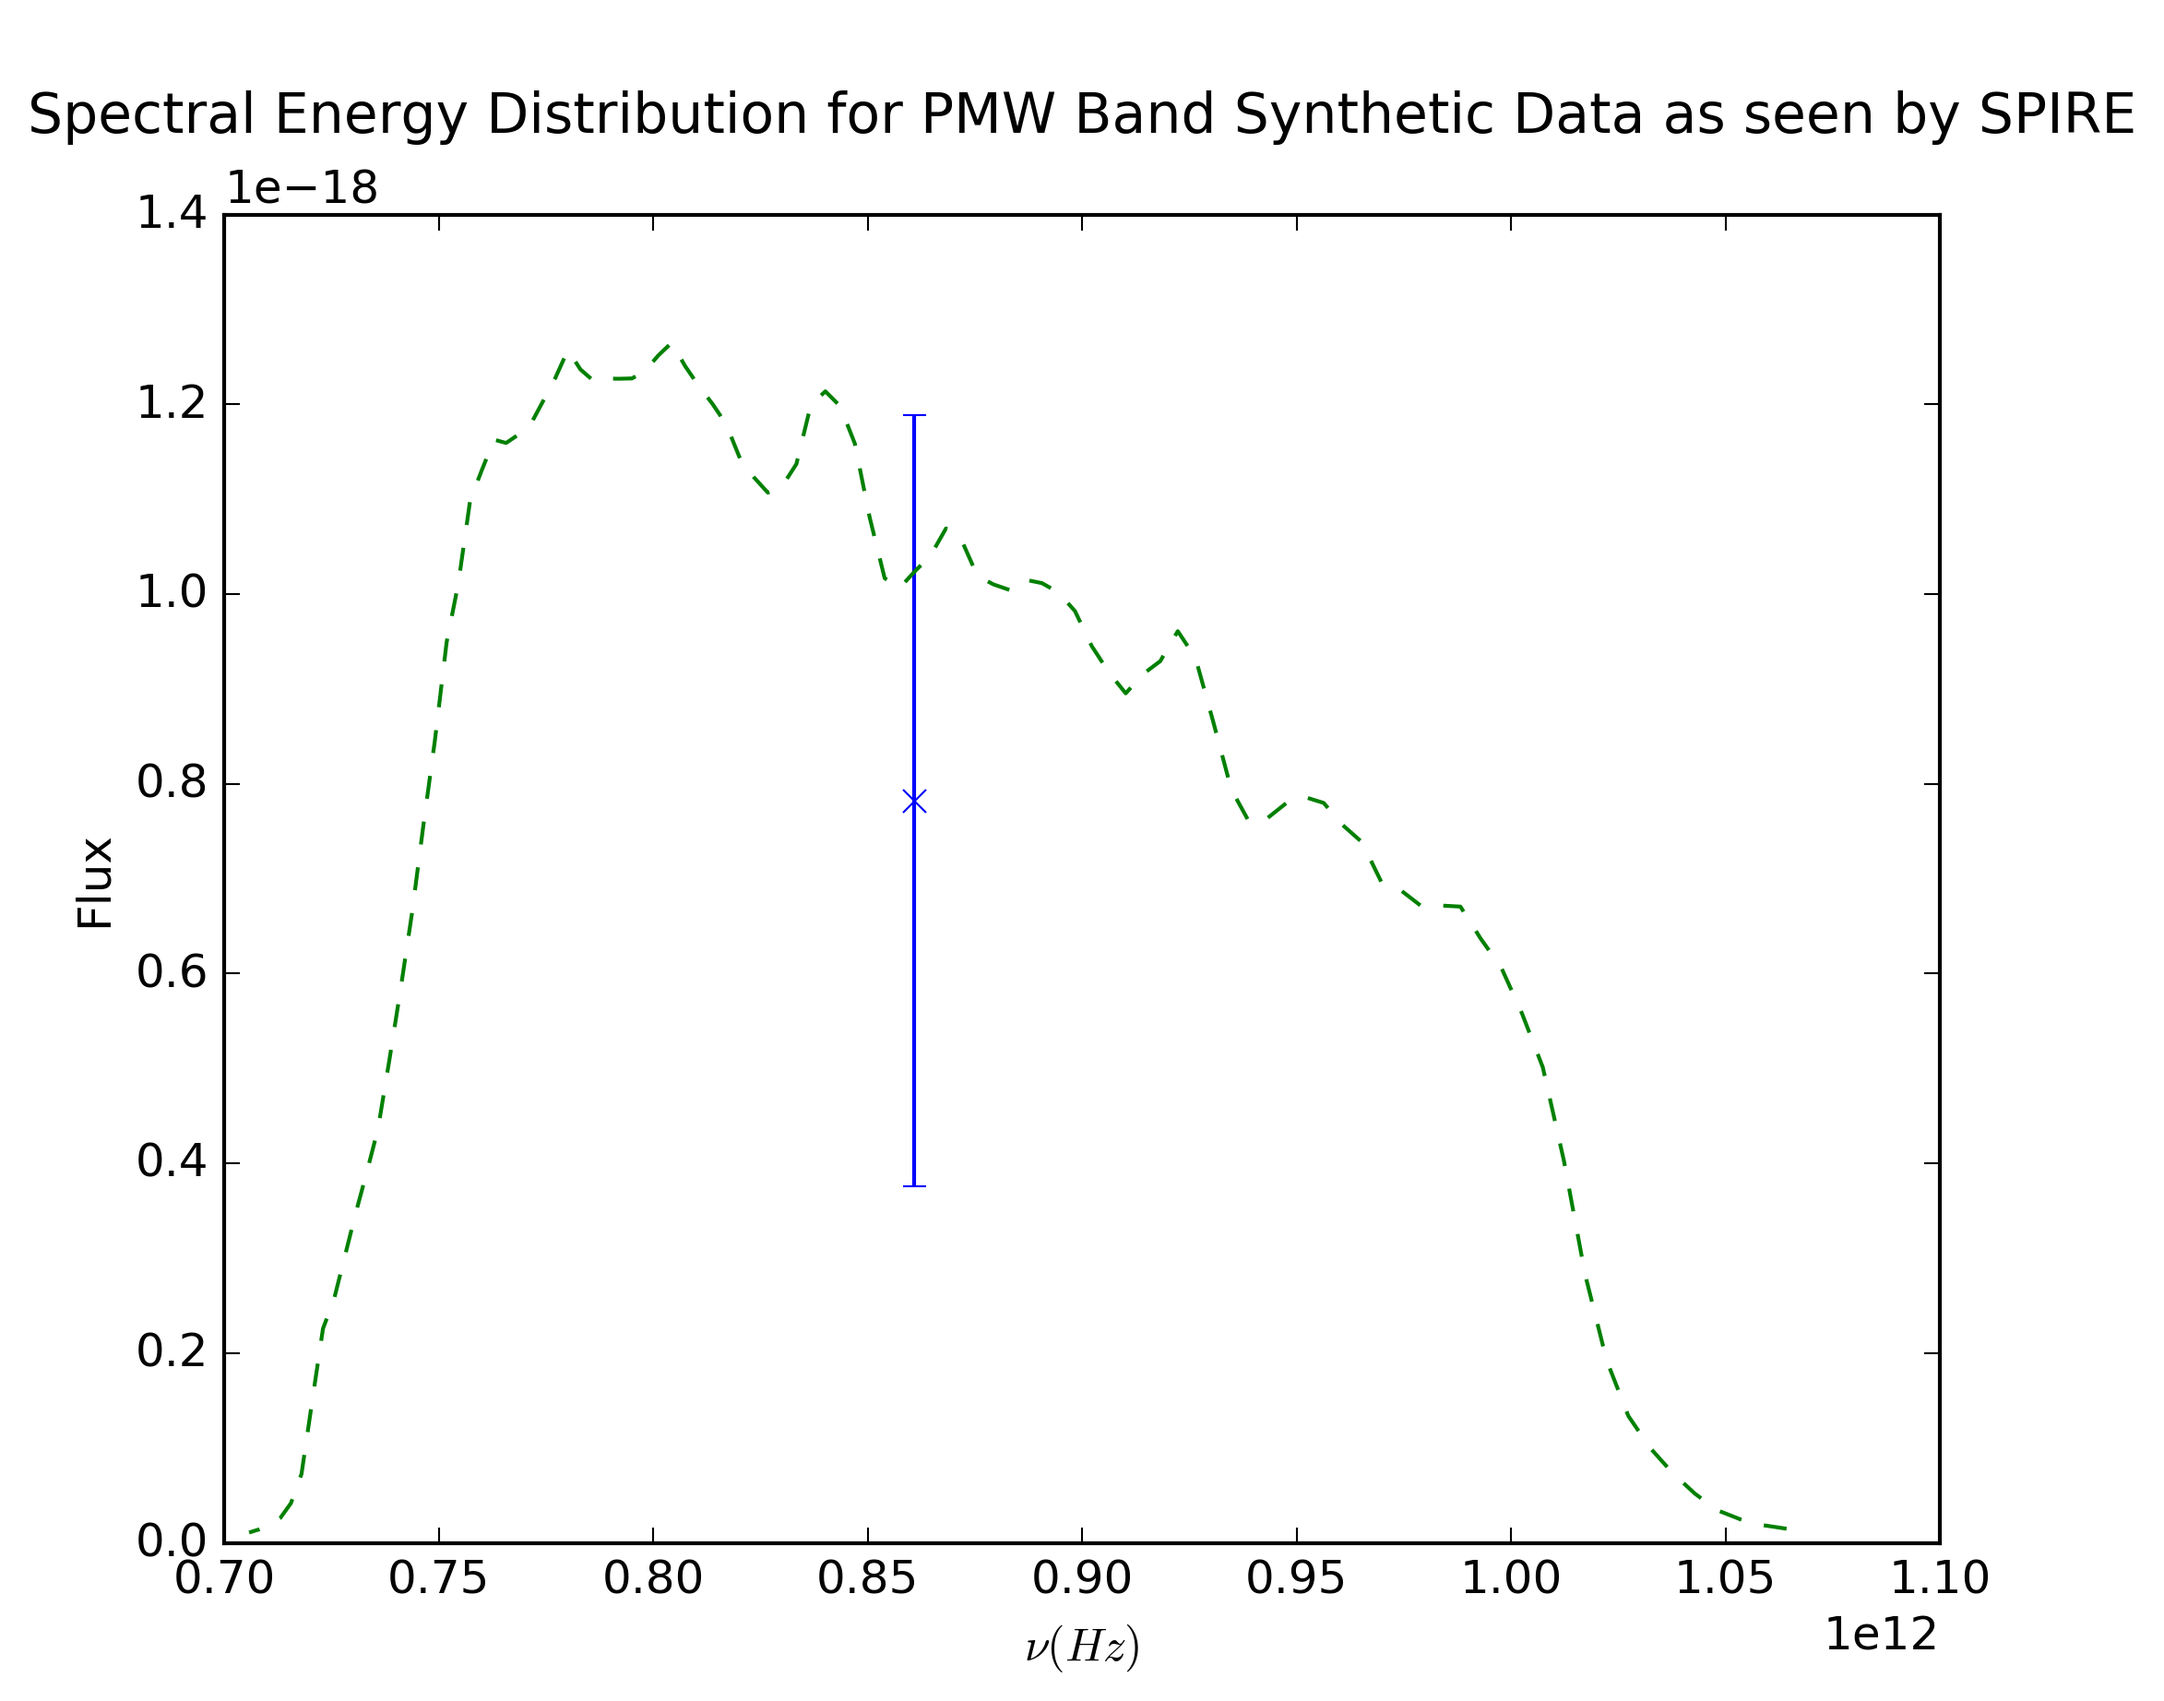
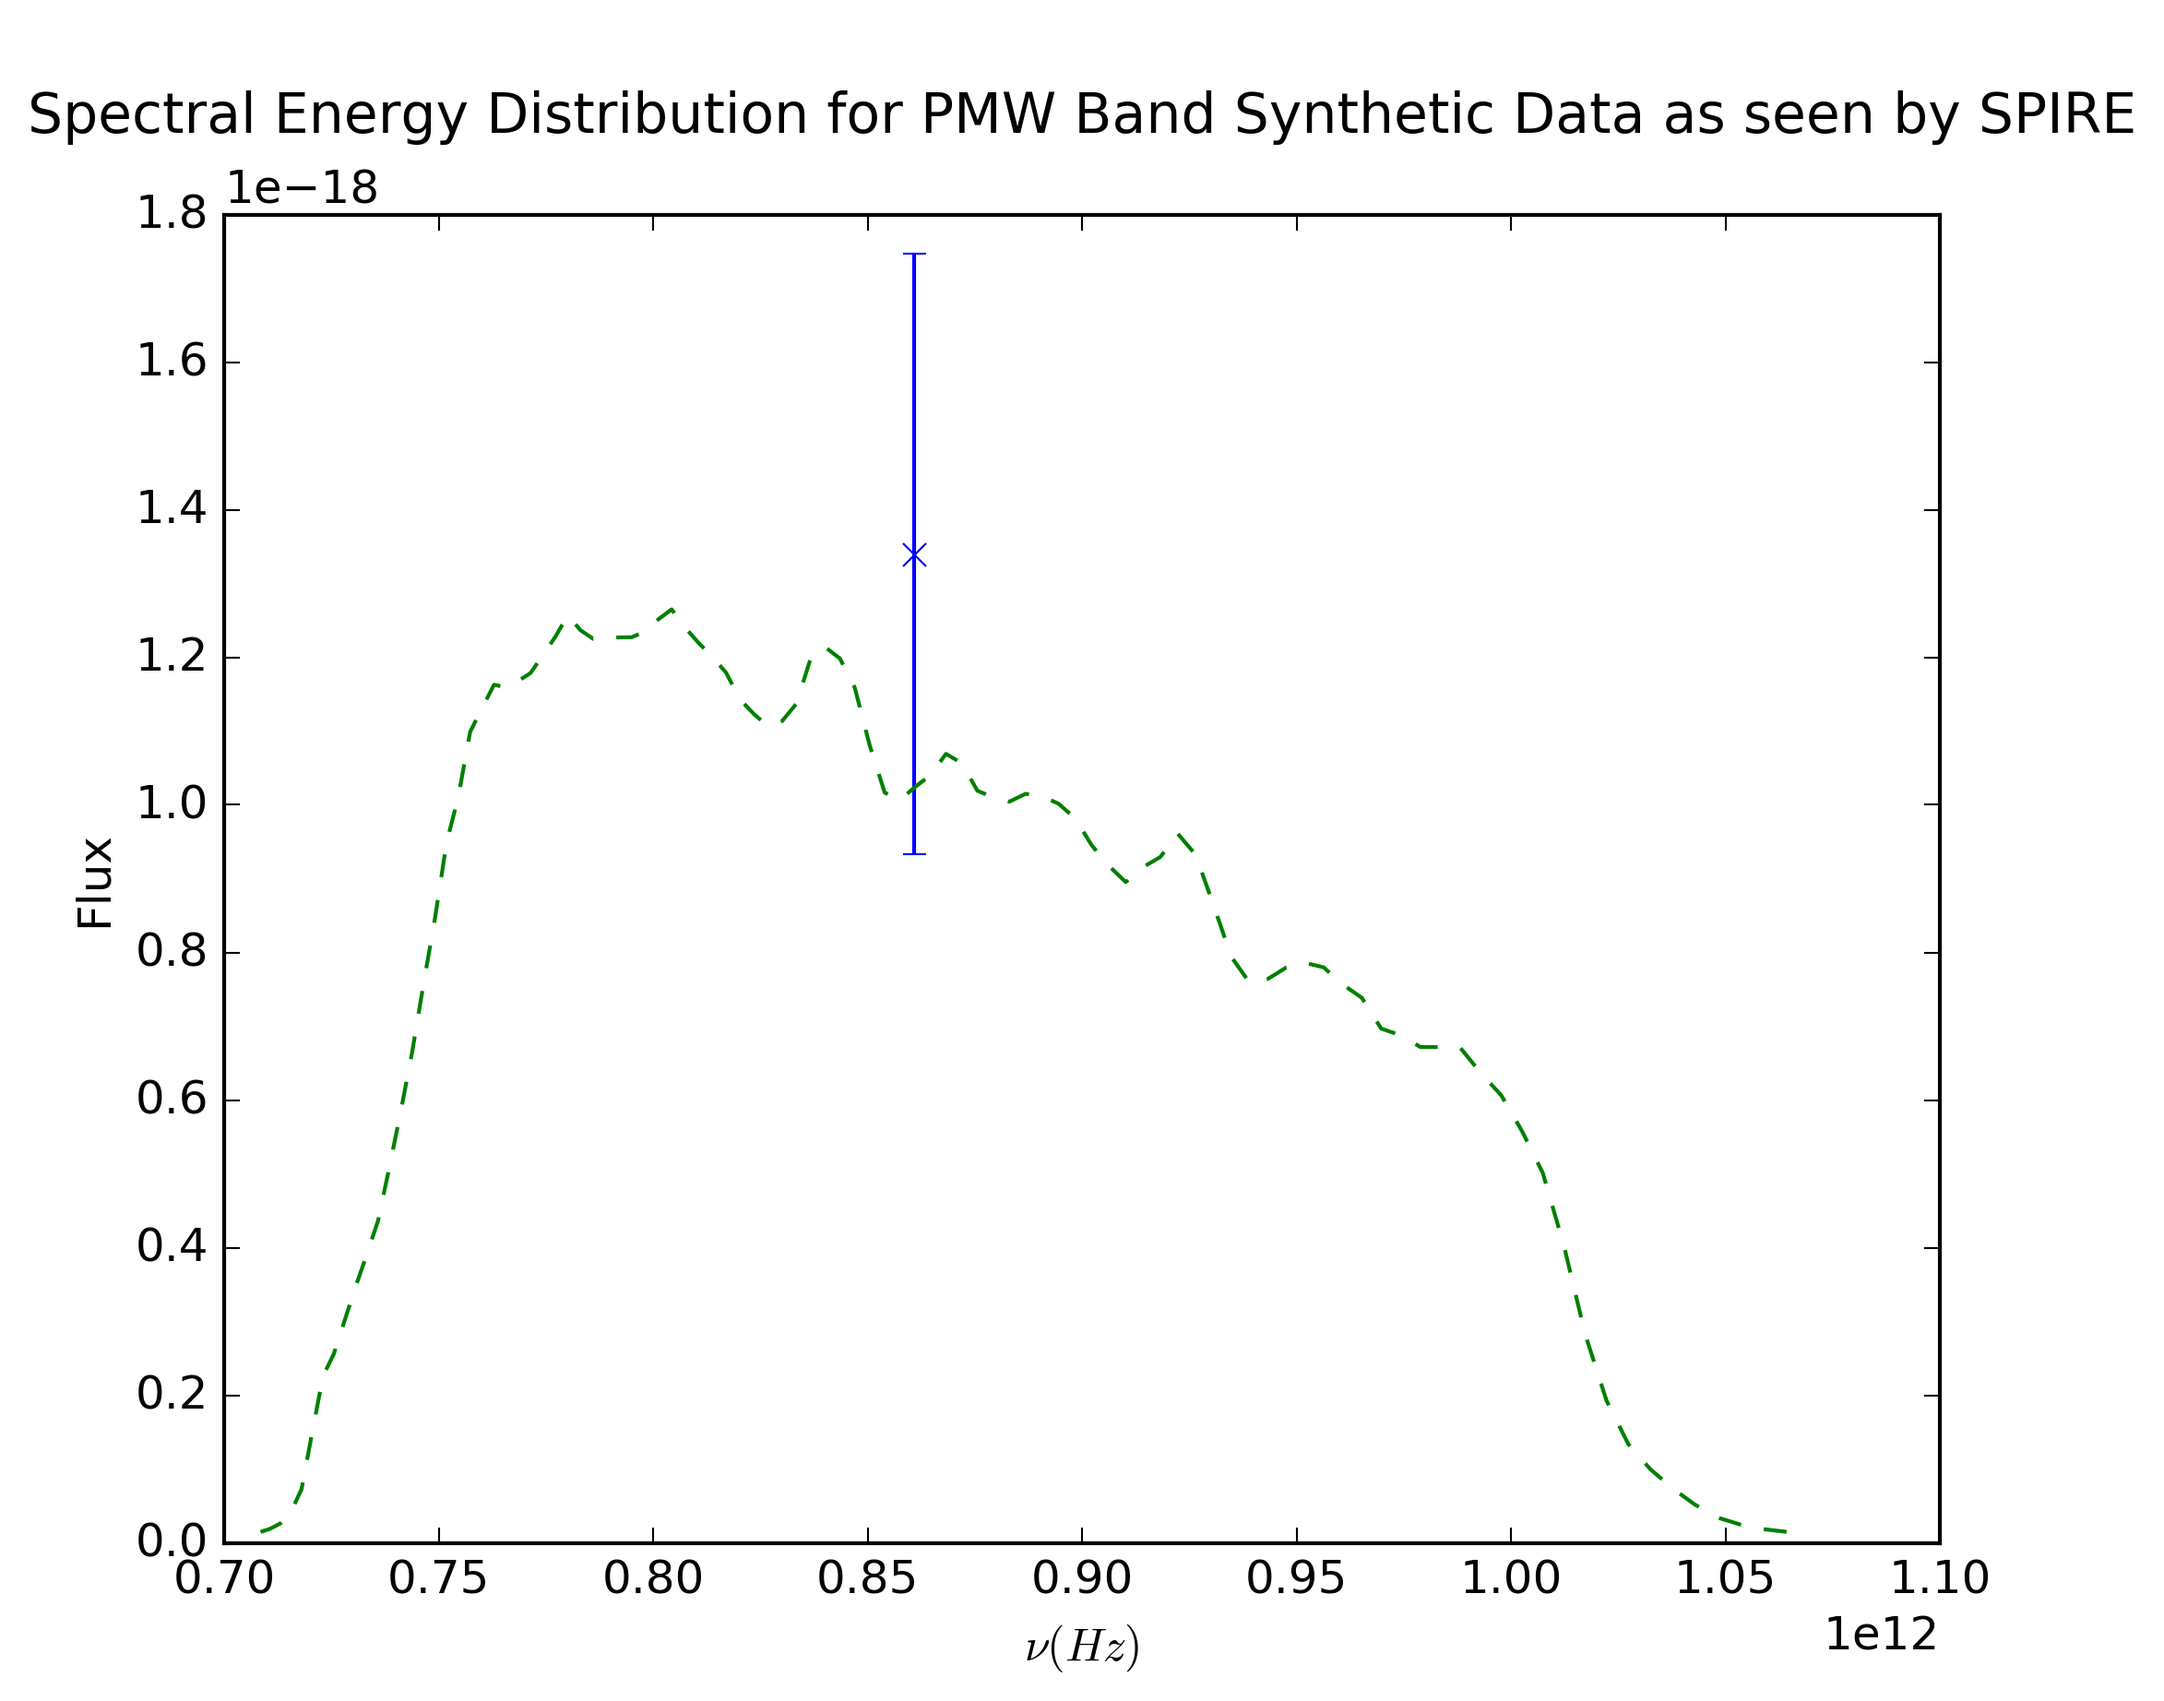
Amended the averaging routine

diff --git a/Code/simulations/stats/chiv2.py b/Code/simulations/stats/chiv2.py
@@ -170,7 +170,7 @@ col = M_j/(np.pi*(R/2)**2)
 print 'The column density was determined to be', col, 'g/cm^2.'
 '''
 #N = np.linspace(1e24,9e24,9)
-N = [125]
+N = [210]
 
 ###################### Determine the modified black body #######################
 
@@ -198,7 +198,7 @@ savefig('SPIRE_averages.png',dpi=300)
 close()
 
 ######################### Apply Chi Squared Routine ############################
-
+'''
 # The data in mod is the expected data whilst the data read in (spectrum) is the real data
 chivals = []
 
@@ -214,3 +214,4 @@ ylabel('$\chi^2$')
 title(str('\nThe $\chi^2$ Distribution for N=')+str(N[0])+str('$cm^{-1}$ to ')+str(N[-1])+str('$cm^{-1}$\n'))
 savefig(str(band)+str('_chisquared_N.png'),dpi=300)
 close()
+'''

diff --git a/Code/simulations/workingsims/plw/background_15K/plw_sed.py b/Code/simulations/workingsims/plw/background_15K/plw_sed.py
@@ -59,8 +59,10 @@ else:
 weighted_flux = trans*flux
 
 # Determine the flux 'seen' by SPIRE
-weighted_flux_mean = np.mean(weighted_flux)
+#weighted_flux_mean = np.mean(weighted_flux)
 weighted_flux_std = np.std(weighted_flux)
+
+weighted_flux_mean = np.sum(weighted_flux)/np.sum(trans)
 
 ################################# Save the data ################################
 

diff --git a/Code/simulations/workingsims/pmw/background_15K/pmw_sed.py b/Code/simulations/workingsims/pmw/background_15K/pmw_sed.py
@@ -59,8 +59,10 @@ else:
 weighted_flux = trans*flux
 
 # Determine the flux 'seen' by SPIRE
-weighted_flux_mean = np.mean(weighted_flux)
+#weighted_flux_mean = np.mean(weighted_flux)
 weighted_flux_std = np.std(weighted_flux)
+
+weighted_flux_mean = np.sum(weighted_flux)/np.sum(trans)
 
 ################################# Save the data ################################
 

diff --git a/Code/simulations/workingsims/psw/background_15K/psw_sed.py b/Code/simulations/workingsims/psw/background_15K/psw_sed.py
@@ -60,8 +60,10 @@ else:
 weighted_flux = trans*flux
 
 # Determine the flux 'seen' by SPIRE
-weighted_flux_mean = np.mean(weighted_flux)
+#weighted_flux_mean = np.mean(weighted_flux)
 weighted_flux_std = np.std(weighted_flux)
+
+weighted_flux_mean = np.sum(weighted_flux)/np.sum(trans)
 
 ################################# Save the data ################################
 
